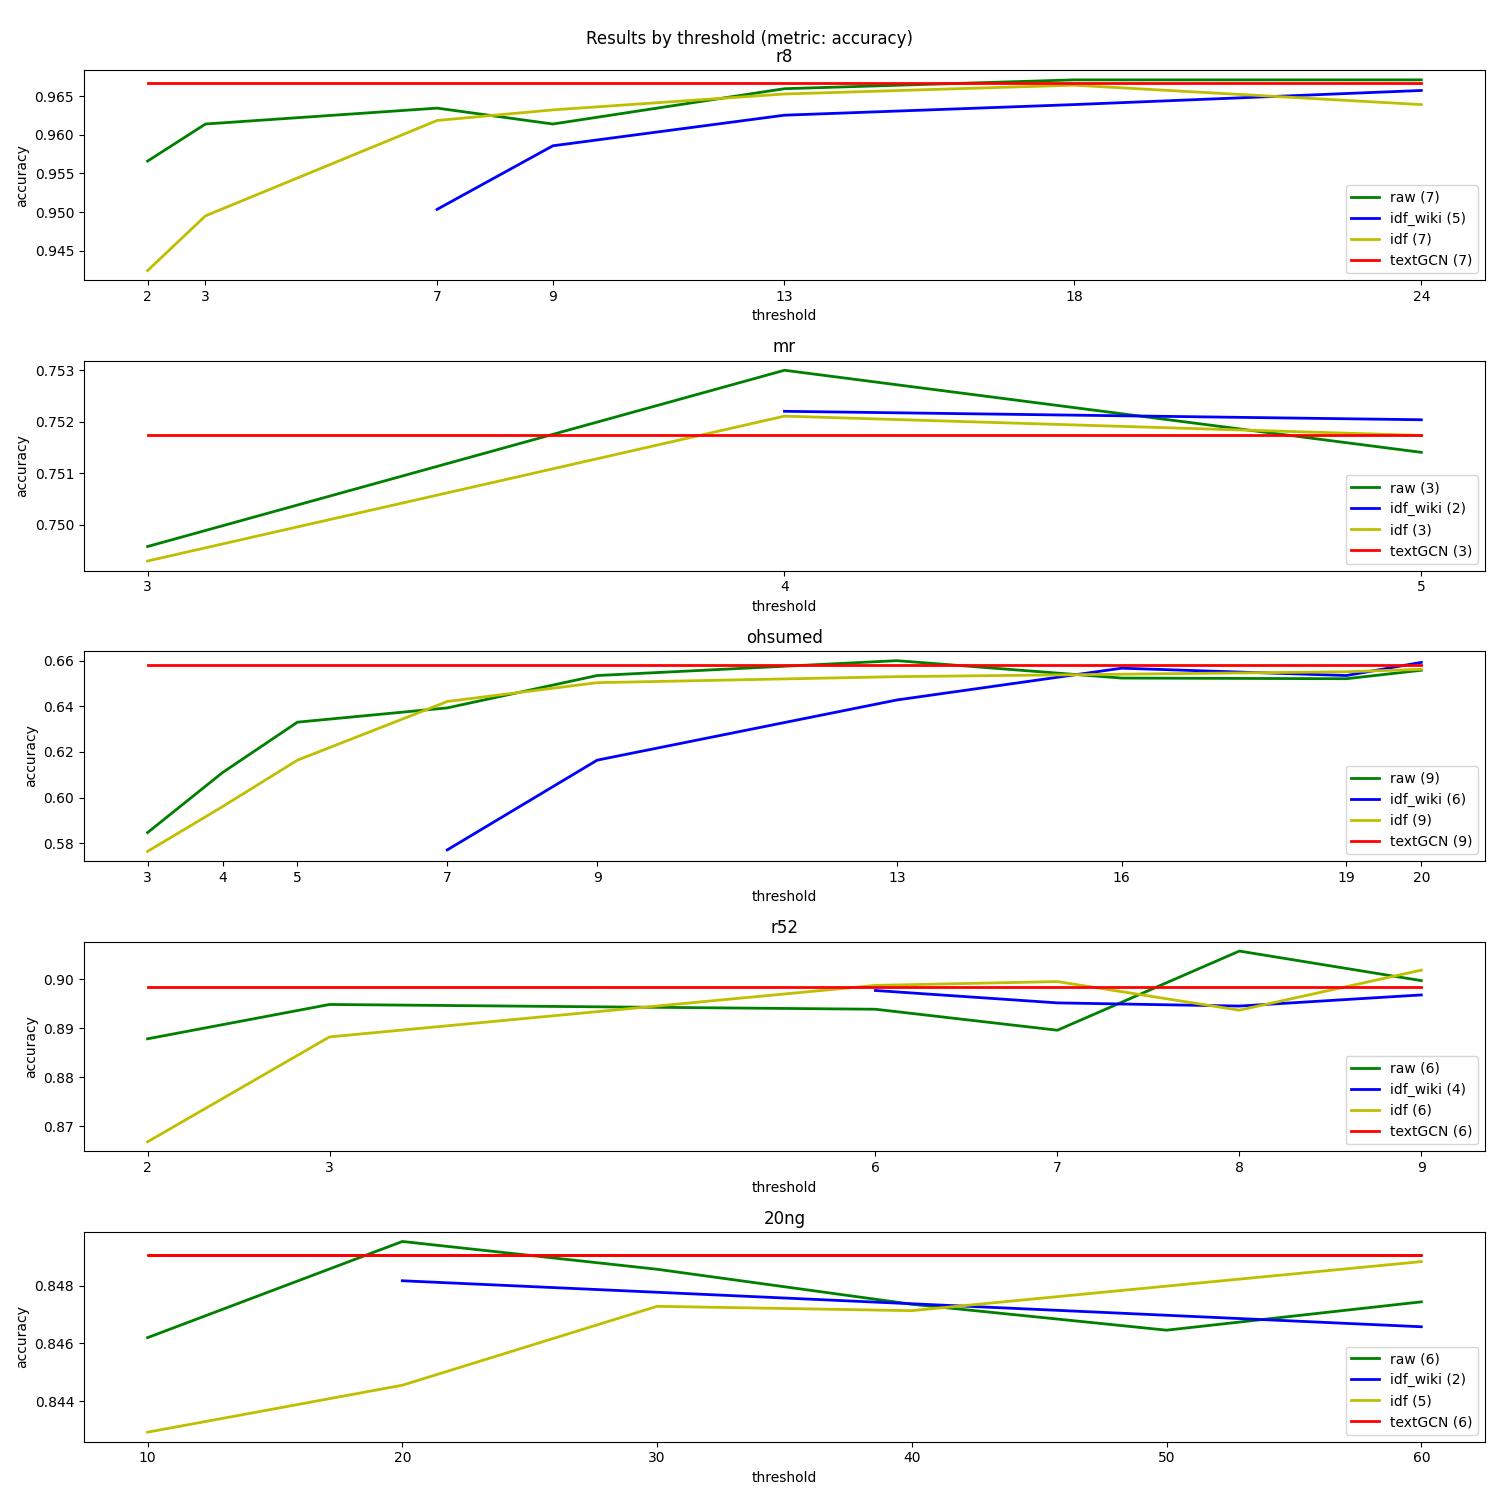
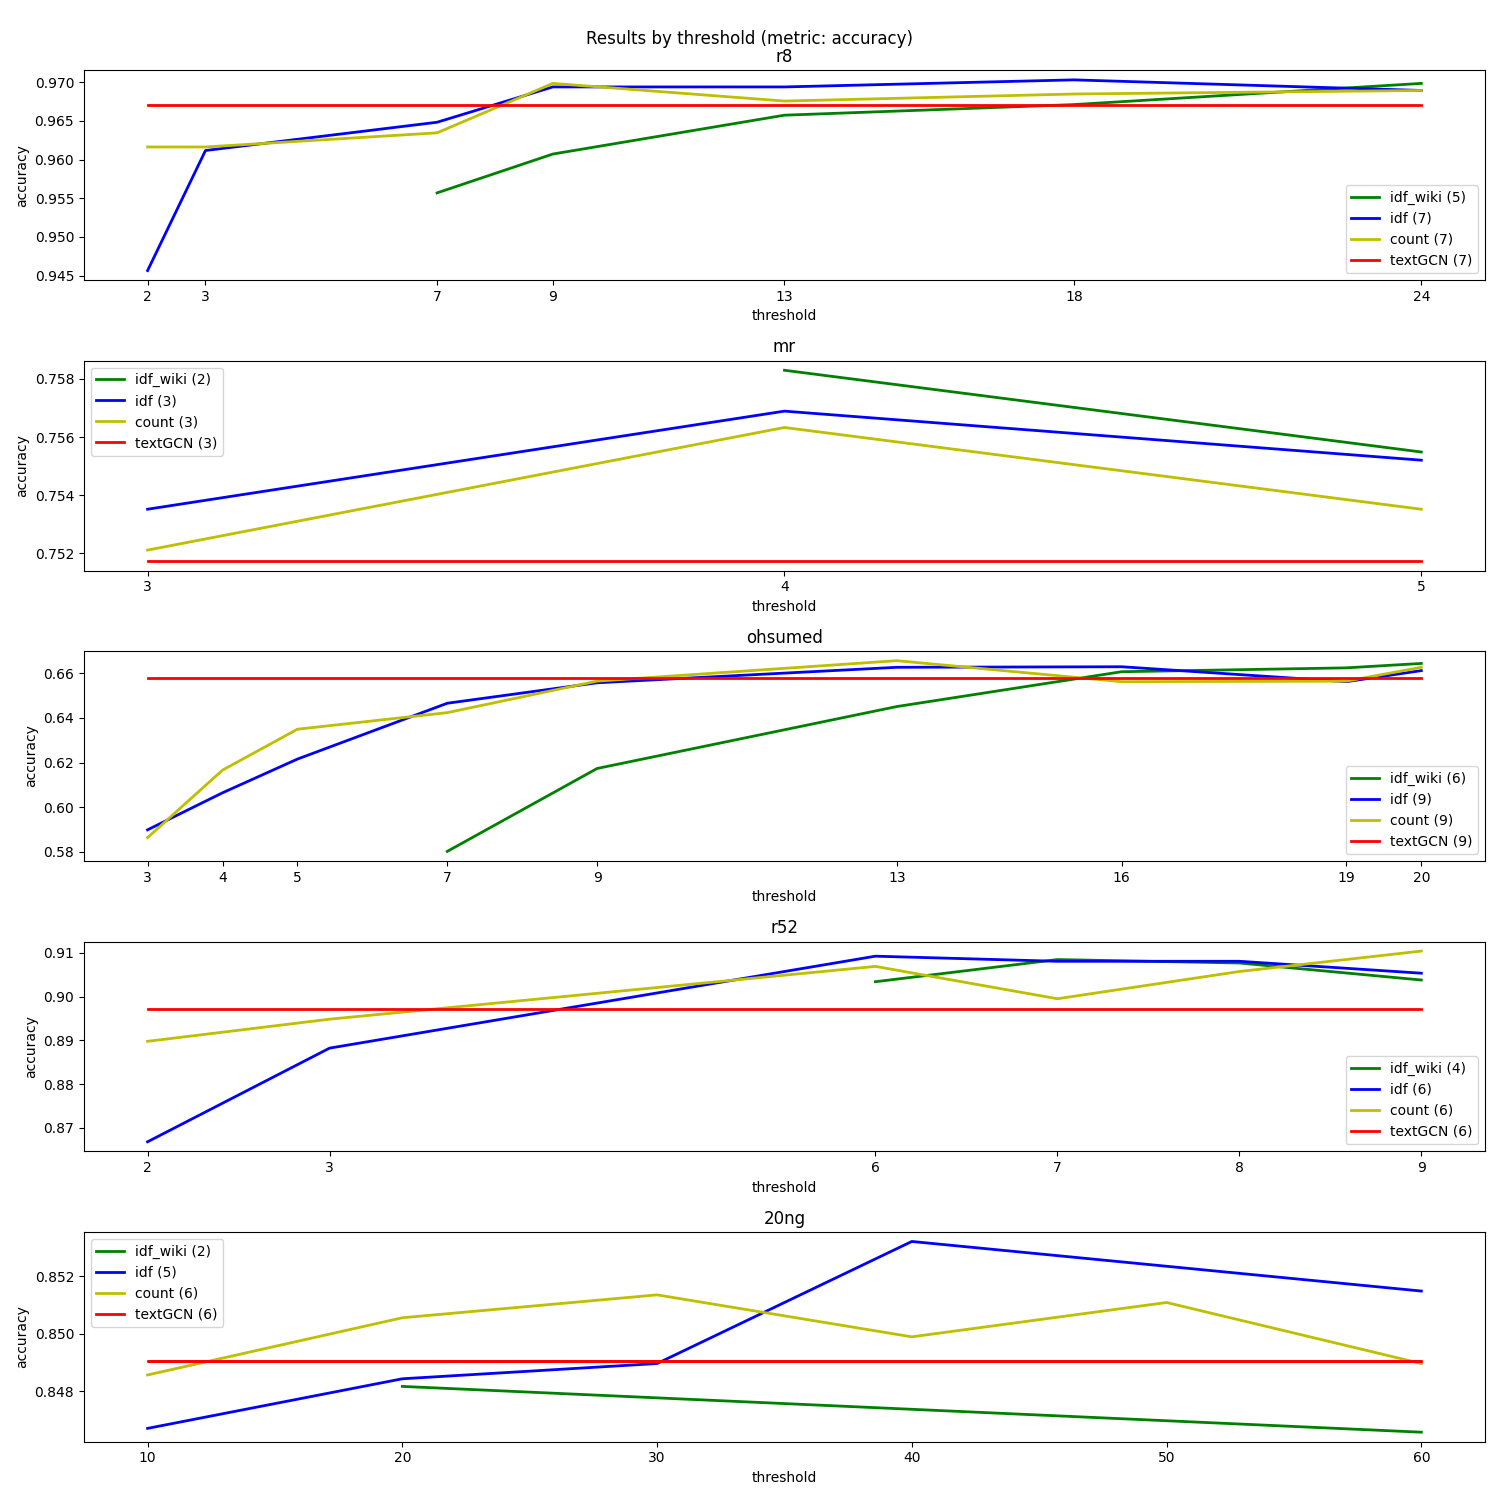
Add new results

diff --git a/analyze_results.py b/analyze_results.py
@@ -46,7 +46,7 @@ def analyze_results(dataset):
                     ].iloc[:, 5:]
                 count = filtered_data.shape[0]
                 meta = [count, True, w, r, t]
-                results.append(meta + filtered_data.mean().tolist())
+                results.append(meta + filtered_data.max().tolist())
 
     total = references + results
     results_df = pd.DataFrame(total)
@@ -175,11 +175,33 @@ def test():
     big_counter = Counter()
     for dataset in available_datasets:
         all = []
-        relations = file.get_document_triples(dataset)["detail"].tolist()
+        triples = file.get_document_triples_metrics(dataset)
+        triples_n = file.get_document_triples(dataset)
+        relations = triples_n["detail"].tolist()
         for x in relations:
             rels = x.split("+")
             for r in rels:
                 all.append(r)
+
+        idf = triples["idf"].tolist()
+        idf_wiki = triples["idf_wiki"].tolist()
+        count = triples["count"].tolist()
+
+        idf_set = list(set(idf))
+        idf_wiki_set = list(set(idf_wiki))
+        count_set = list(set(count))
+
+        plt.hist(count, bins=len(count_set))
+        plt.savefig(f"{dataset}_hist_count.png")
+        plt.close()
+
+        plt.hist(idf, bins=len(idf_set))
+        plt.savefig(f"{dataset}_hist_idf.png")
+        plt.close()
+
+        plt.hist(idf_wiki, bins=len(idf_wiki_set))
+        plt.savefig(f"{dataset}_hist_idf_wiki.png")
+        plt.close()
 
         big_counter += Counter(all)
     with open('dict.csv', 'w') as csv_file:
@@ -191,10 +213,8 @@ def test():
             writer.writerow([key, value, label[0], desc[0]])
 
 
-
 if __name__ == '__main__':
     # plot_number_of_edges()
-    # plot_all()
+    plot_all()
     # plot_all("f1_macro")
     # plot_all("f1_micro")
-    test()
